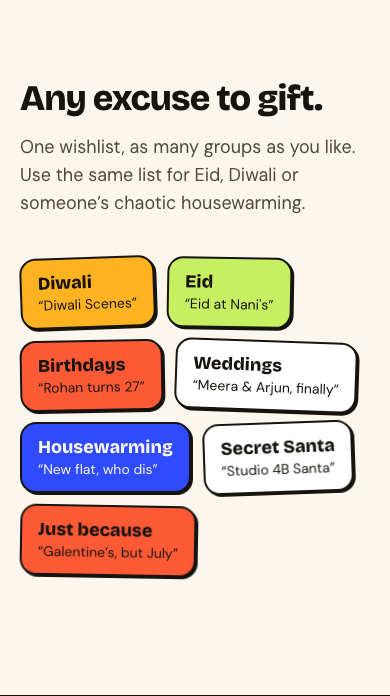
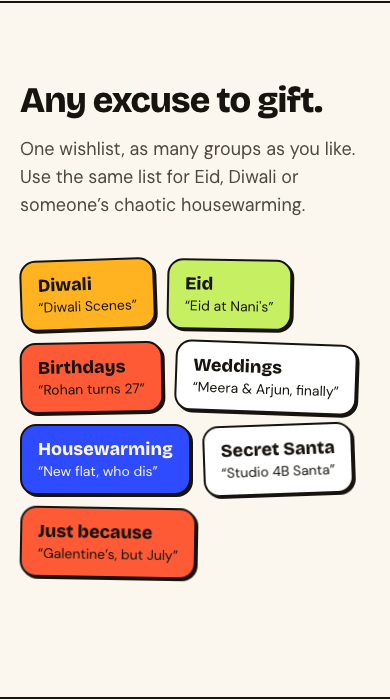
Align occasion and FAQ section borders and desktop layout

diff --git a/src/landing/landing-page.tsx b/src/landing/landing-page.tsx
@@ -147,10 +147,10 @@ export function LandingPage({
         <section
           id="occasions"
           aria-labelledby="occasions-title"
-          className="mx-auto max-w-6xl px-5 pt-20 pb-30 sm:px-8"
+          className="border-y-2 border-outline-strong"
         >
-          <div className="grid gap-10 lg:grid-cols-[1fr_1.4fr] lg:items-center">
-            <div>
+          <div className="mx-auto grid max-w-6xl gap-10 px-5 pt-20 pb-30 sm:px-8 lg:grid-cols-[1.4fr_1fr] lg:items-center">
+            <div className="lg:order-2">
               <h2
                 id="occasions-title"
                 className="font-display text-4xl leading-[1.02] font-extrabold tracking-tight sm:text-5xl"
@@ -162,7 +162,7 @@ export function LandingPage({
                 Eid, Diwali or someone’s chaotic housewarming.
               </p>
             </div>
-            <ul className="flex flex-wrap gap-3">
+            <ul className="flex flex-wrap gap-3 lg:order-1">
               {occasions.map((occasion, index) => (
                 <li
                   key={occasion.label}
@@ -187,7 +187,7 @@ export function LandingPage({
 
         <section
           aria-labelledby="questions-title"
-          className="border-t-2 border-outline-strong bg-surface-raised"
+          className="-mt-0.5 border-y-2 border-outline-strong bg-surface-raised"
         >
           <div className="mx-auto grid max-w-6xl gap-8 px-5 py-16 sm:px-8 sm:py-20 lg:grid-cols-[0.8fr_1.2fr] lg:gap-16">
             <div>

diff --git a/docs/delivery/evidence/landing-positioning-2026-10-04/README.md b/docs/delivery/evidence/landing-positioning-2026-10-04/README.md
@@ -12,7 +12,7 @@ The user approved the marketing review after new visitors could not understand h
 - [x] Make the secondary hero action useful: **How it works** scrolls to `#how` at desktop and mobile sizes. The removed interactive example is not moved elsewhere; its unused component and unit tests are deleted.
 - [x] Keep public-sharing claims truthful. The original hero's “Reserved secretly” sticker is omitted because public wishlist links never expose reservations. This is the only change inside the restored hero illustration; its composition and remaining content stay intact.
 - [x] Introduce groups as optional and use existing individual wishlists. Restore the original Santa Party member/product illustration, including its private reservation badges, budget states and explicit explanation that Kabir cannot see reservations on his own list. The three current benefits use the original numbered tomato markers (1, 2, 3), as requested. The old universal “No double gifts” headline is not restored.
-- [x] Restore the original **Any excuse to gift.** events section with its colorful occasion tiles between groups and FAQ. Remove the condensed “Birthdays · Diwali · Eid · Secret Santa · Just because” line beneath groups. Preserve the original section geometry, colors and content.
+- [x] Restore the original **Any excuse to gift.** events section with its colorful occasion tiles between groups and FAQ. Remove the condensed “Birthdays · Diwali · Eid · Secret Santa · Just because” line beneath groups. Keep the original colors and content. The latest user-approved refinement puts occasion cards on the left and text on the right at desktop widths, with full-width top/bottom section borders on both occasions and FAQ. Mobile keeps the introductory text above the cards.
 - [x] Explain public-link visibility, sign-in requirements for reactions/groups and external purchases in accessible disclosure questions.
 - [x] Preserve authentication intent, session-aware navigation and logout confirmation. No schema, permissions, protected-app, dependency or production-resource changes.
 
@@ -30,18 +30,21 @@ Route `/`, anonymous session, fixed demo content, no overlays, desktop **1440×1
 - [Restored group illustration — mobile](group-mobile.png)
 - [Restored occasions — desktop](occasions-desktop.png)
 - [Restored occasions — mobile](occasions-mobile.png)
+- [FAQ section borders — desktop](faq-desktop.png)
+- [FAQ section borders — mobile](faq-mobile.png)
 
-`collage-before-*` records the immediately preceding compact interactive design. `refinement-before-*`, `example-review-desktop.png` and `friend-view-*` preserve earlier review evidence only; those interactions are no longer shipped.
+Intermediate interactive-demo screenshots have been removed from the final evidence tree. The original before captures and current after/section captures remain; superseded iterations are recoverable in Git history.
 
 These are review evidence, **not approved replacement golden screenshots**. No baseline files or manifest were changed. The landing still differs from the old group-first goldens, so a separate explicit baseline approval is required after human review.
 
 ## Final integrated verification
 
-Final screenshots use source commit **647c63b**, which includes the approved landing changes, integrated CI fixes and brand/favicon/social assets. The coordinating agent built and served this branch on3300 with the actual local Supabase configuration. The server was not stopped or rebuilt during evidence collection.
+Final screenshots use the integrated landing branch based on **ad2dfd7**, plus the border/column refinements committed with this evidence. It includes the approved landing changes, integrated CI fixes and brand/favicon/social assets. The coordinating agent built and served this branch on3300 with the actual local Supabase configuration. The server was not stopped or rebuilt during evidence collection.
 
-- Combined `pnpm verify` passed formatting, lint, type-check, **154 test files /1,512 unit tests**, and production build (run by the coordinating agent).
+- Combined `pnpm verify` passed formatting, lint, type-check, **154 test files /1,512 unit tests**, and production build (run by the coordinating agent before the final styling-only refinement). The latest border/column build also passed.
 - Focused final landing/browser accessibility run: **23 passed, 1 intentional mobile-navigation skip**. The two viewport variants of the test requiring an unconfigured auth provider were explicitly excluded with `--grep-invert`, because this integrated server has Supabase configured. That failure-recovery scenario passed earlier on the isolated unconfigured build; no production behavior or test files were altered to accommodate this run.
 - Independent rendered-page checks at both sizes confirmed markers **1,2,3**, three original hero product images, no hero reservation sticker, original **Santa Party 🎉** group illustration, seven occasion tiles, occasions before FAQ, and absence of the condensed occasion line. No horizontal overflow:1440/1440 desktop and390/390 mobile.
+- Final border/column checks passed on the latest running build: occasions and FAQ each span the full viewport (1440px desktop /390px mobile), each has2px top and bottom borders, and their shared edge overlaps by2px to remain a single line. Cards are left of text on desktop; text precedes cards vertically on mobile. Screenshots were visually inspected; no broad test rerun was needed for this styling-only refinement.
 - Anonymous page metadata renders `/assets/brand/share-banner-v2.png` for both Open Graph and Twitter images. Favicon, PNG icon and Apple icon links are present. Asset correctness was checked separately in the integrated brand work.
 - Existing golden files are untouched. The last comparison before restoring the occasion section reported two expected landing differences from the old group-first design. New final screenshots require explicit review and baseline approval; they were not adopted automatically.
 - This public-only revision does not mutate data. Database suites were handled separately by the CI-fix work.
@@ -54,4 +57,4 @@ No migration is required. Reverting the landing commits restores the previous pa
 
 ## Occasion-section restoration
 
-The final follow-up restores the original V18 occasion section immediately before the FAQ, as explicitly requested. It reuses the original seven fixed tiles, semantic colors, rotation rhythm, layout and copy. The condensed occasion line is removed. Focused formatting and11landing unit checks passed on this change. The coordinating agent subsequently verified and built the integrated branch; final screenshots now show this restored section. No server was started or stopped during the screenshot follow-up.
+The final follow-up restores the original V18 occasion section immediately before the FAQ, as explicitly requested. It reuses the original seven fixed tiles, semantic colors, rotation rhythm and copy. A later explicit refinement reverses the desktop columns (cards left, text right) and adds full-width top/bottom borders to occasions and FAQ. Their shared separator overlaps by one border width to avoid a doubled line. The condensed occasion line is removed. Focused formatting and11landing unit checks passed on this change. The coordinating agent subsequently verified and built the integrated branch; final screenshots now show this restored section. No server was started or stopped during the screenshot follow-up.

diff --git a/DESIGN.md b/DESIGN.md
@@ -27,7 +27,7 @@ Primary landing language:
 - Supporting line: **No group needed. Friends can view your list without signing up.**
 - Optional next step: **Gifting together? Start a group.**
 
-Teach adding, sharing and shopping from the original store before introducing groups. A group brings existing individual wishlists together; it is not a prerequisite or a new shared wishlist. The hero uses the original V18 overlapping product-card collage, tape, reaction bubbles and reduced-motion-aware entrance. The user explicitly restored this illustration after reviewing interactive alternatives. Its “Reserved secretly” sticker is omitted so the public-sharing hero does not imply public reservation visibility. The groups section retains the original Santa Party member/product illustration, including its private reservation badges and recipient-visibility explanation. Groups remain an optional next step in the surrounding new copy. The original **Any excuse to gift.** section and colorful occasion tiles appear after groups and before the FAQ; the condensed occasion text row is removed. Never imply in-app checkout, pooled payments, guaranteed extraction or duplicate prevention.
+Teach adding, sharing and shopping from the original store before introducing groups. A group brings existing individual wishlists together; it is not a prerequisite or a new shared wishlist. The hero uses the original V18 overlapping product-card collage, tape, reaction bubbles and reduced-motion-aware entrance. The user explicitly restored this illustration after reviewing interactive alternatives. Its “Reserved secretly” sticker is omitted so the public-sharing hero does not imply public reservation visibility. The groups section retains the original Santa Party member/product illustration, including its private reservation badges and recipient-visibility explanation. Groups remain an optional next step in the surrounding new copy. The **Any excuse to gift.** section and original colorful occasion tiles appear after groups and before the FAQ; the condensed occasion text row is removed. The latest approved layout puts occasion cards on the left and text on the right on desktop, with text first on mobile. Occasions and FAQ both have full-width top/bottom borders with one shared separator between them. Never imply in-app checkout, pooled payments, guaranteed extraction or duplicate prevention.
 
 Keep the V18 visual language, typography and semantic tokens. This approved landing hierarchy supersedes V18's group-first marketing copy only; it does not change authenticated screens or authorize automatic visual baseline replacement. New desktop/mobile review evidence lives in `docs/delivery/evidence/landing-positioning-2026-10-04/`.
 
